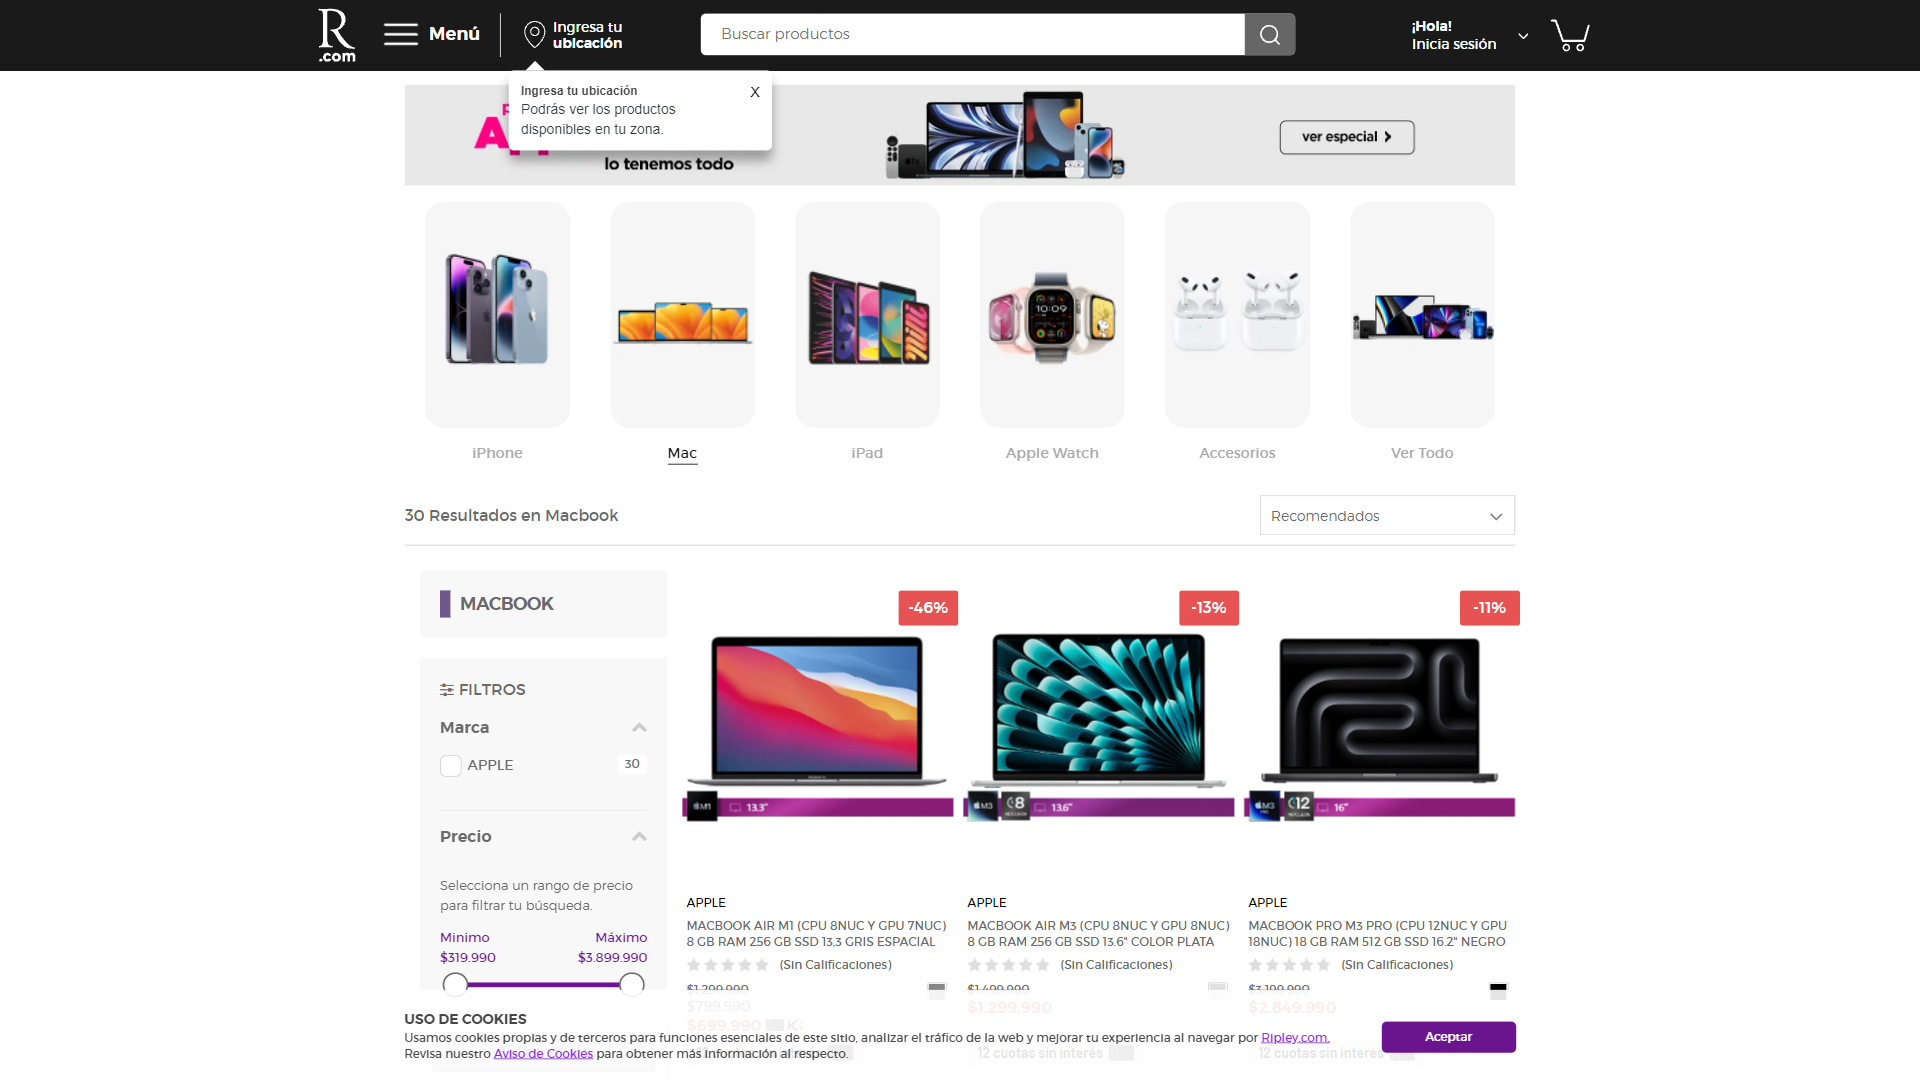
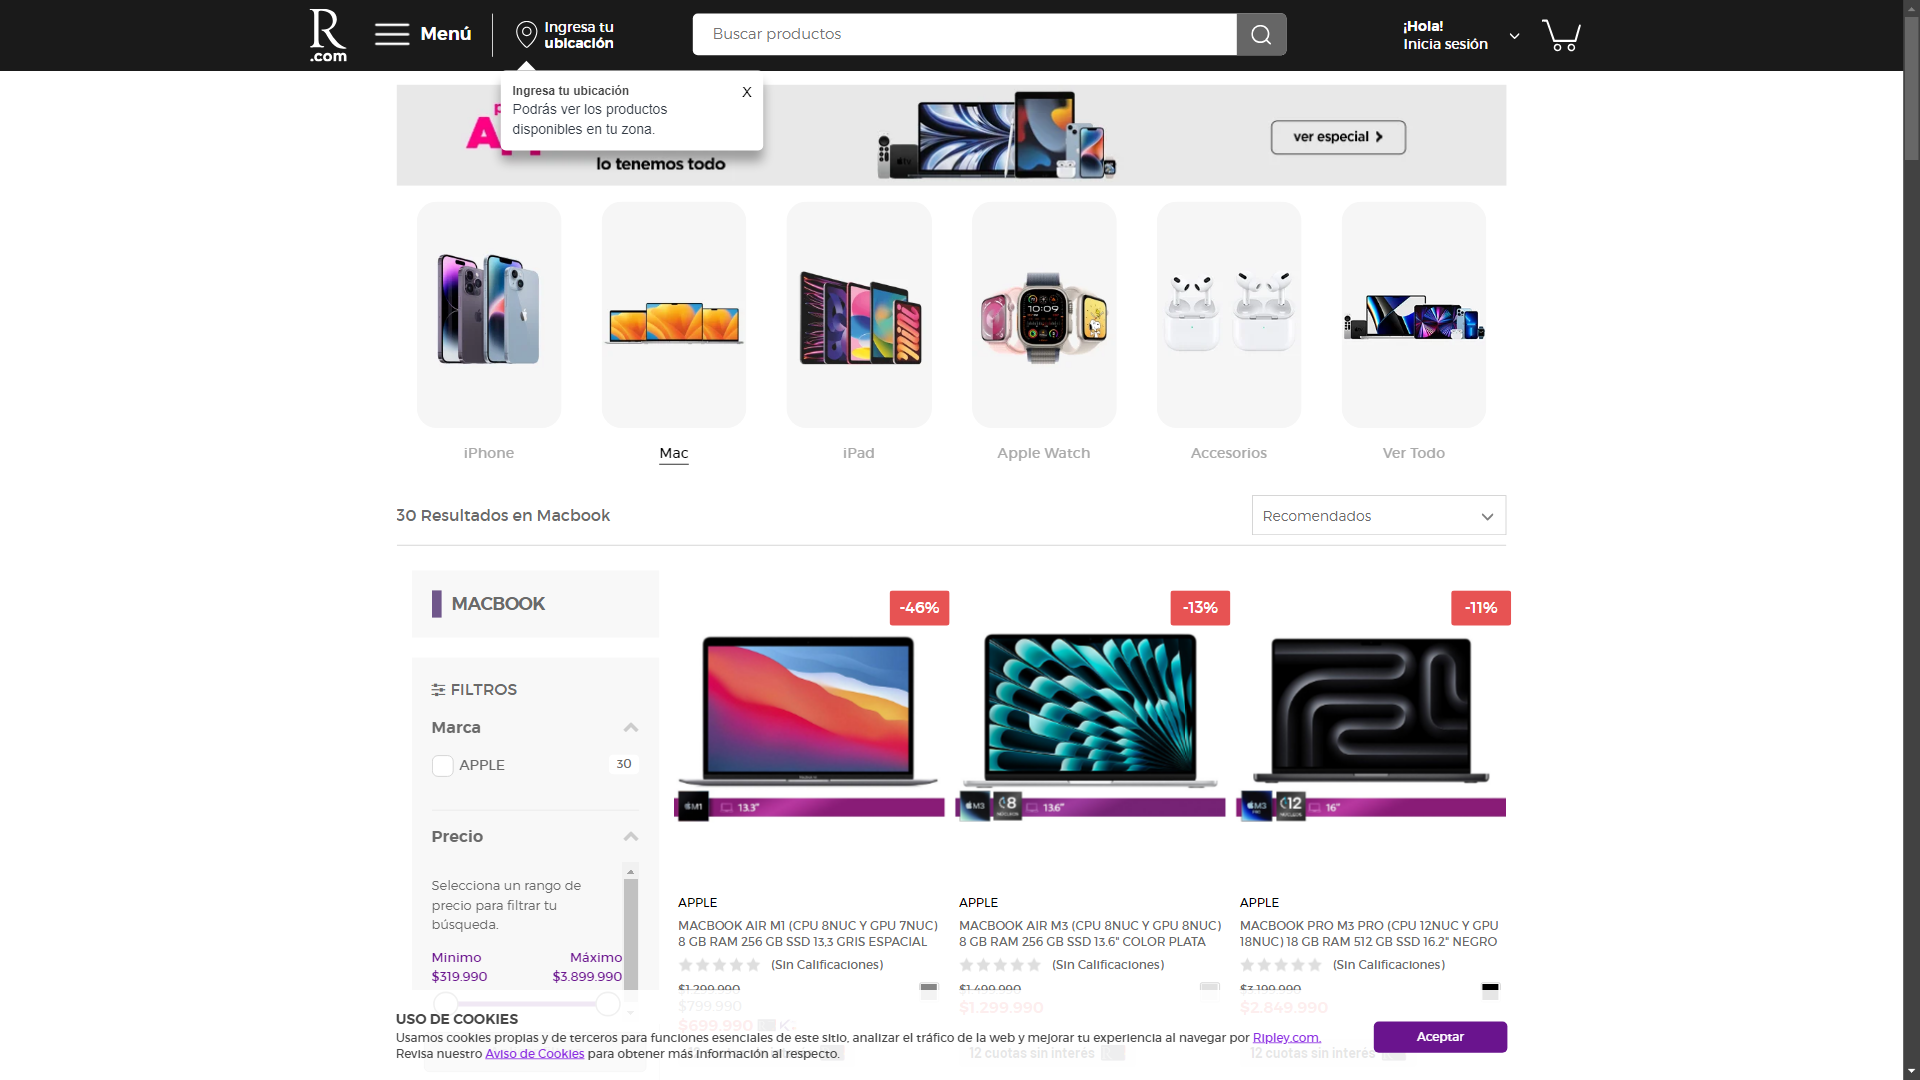
update

diff --git a/index.js b/index.js
@@ -1,12 +1,12 @@
-import puppeteer from "puppeteer";
-import nodemailer from "nodemailer";
-import dotenv from "dotenv";
 import puppeteerExtra from "puppeteer-extra";
 import Stealth from "puppeteer-extra-plugin-stealth";
+import nodemailer from "nodemailer";
+import dotenv from "dotenv";
 
 // Cargar variables de entorno
 dotenv.config();
 
+// Usar plugin Stealth para evitar ser detectado
 puppeteerExtra.use(Stealth());
 
 // Configurar el servicio de correo (Gmail)
@@ -39,7 +39,16 @@ function sendEmail(subject, htmlContent) {
 
 // Función para hacer scraping
 async function checkLaptops() {
-  const browserObj = await puppeteerExtra.launch();
+  const browserObj = await puppeteerExtra.launch({
+    headless: false, // Usar headful en GitHub Actions
+    executablePath: process.env.PUPPETEER_EXEC_PATH || undefined, // Usar executablePath solo en GitHub Actions
+    args: [
+      "--no-sandbox", // Evita problemas de permisos
+      "--disable-setuid-sandbox",
+      "--disable-gpu", // Desactivar aceleración por GPU en entornos CI
+    ],
+  });
+
   const newpage = await browserObj.newPage();
 
   await newpage.setViewport({ width: 1920, height: 1080 });
@@ -52,7 +61,7 @@ async function checkLaptops() {
     "https://simple.ripley.cl/tecno/mundo-apple/macbook?s=mdco"
   );
 
-  await newpage.waitForNetworkIdle(); // Wait for network resources to fully load
+  await newpage.waitForNetworkIdle(); // Esperar hasta que la red esté inactiva
 
   await newpage.screenshot({ path: "screenshot.png" });
 
